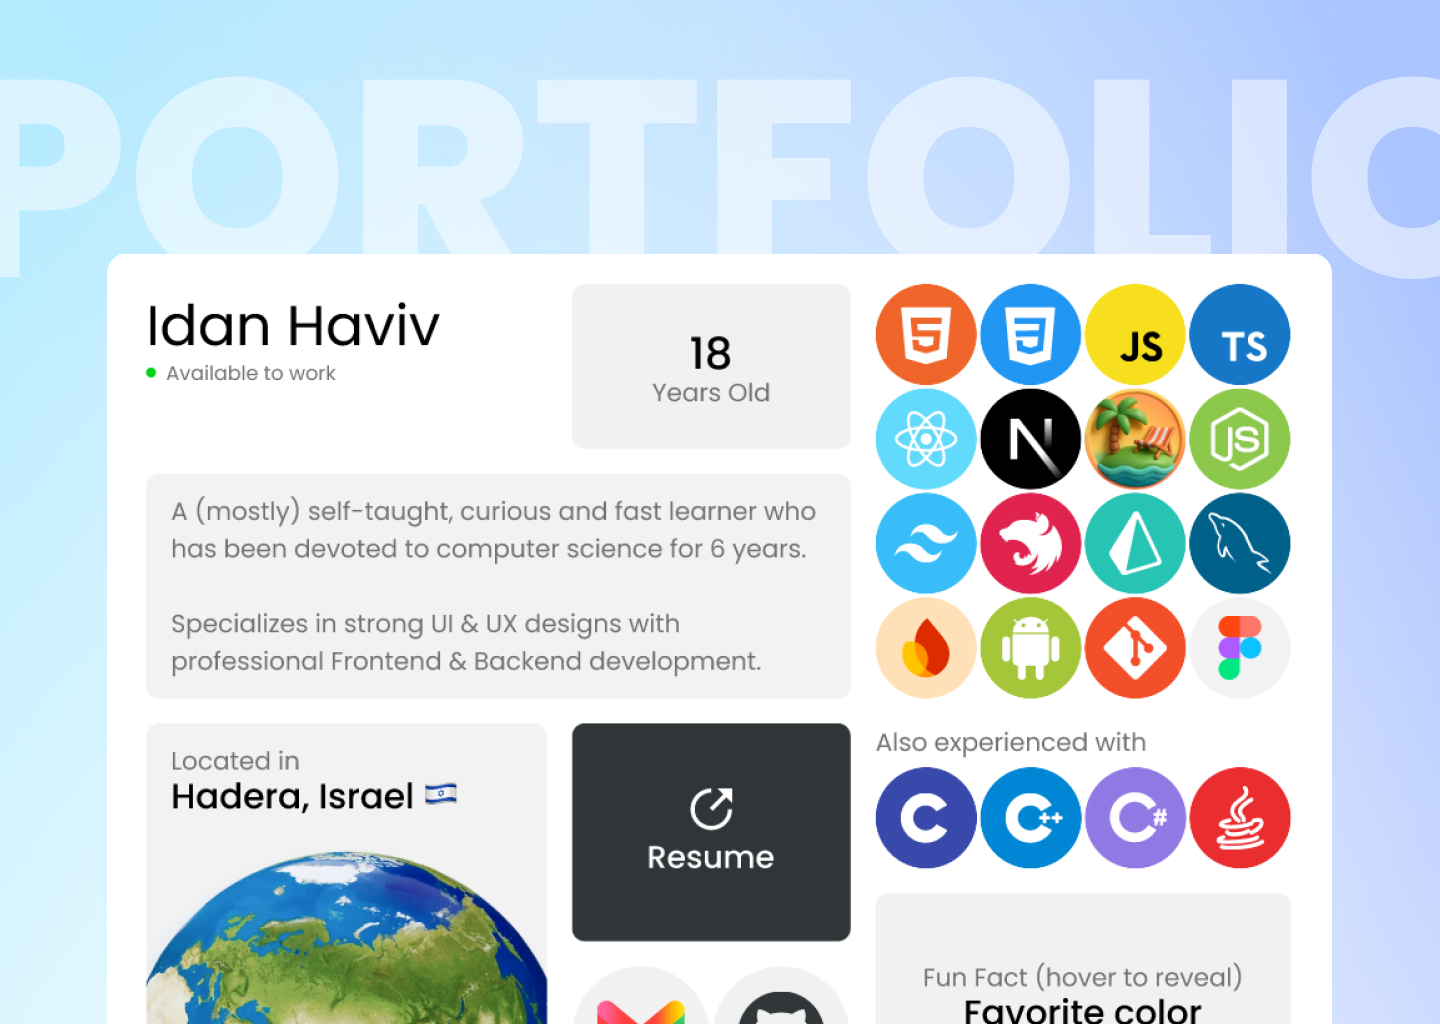
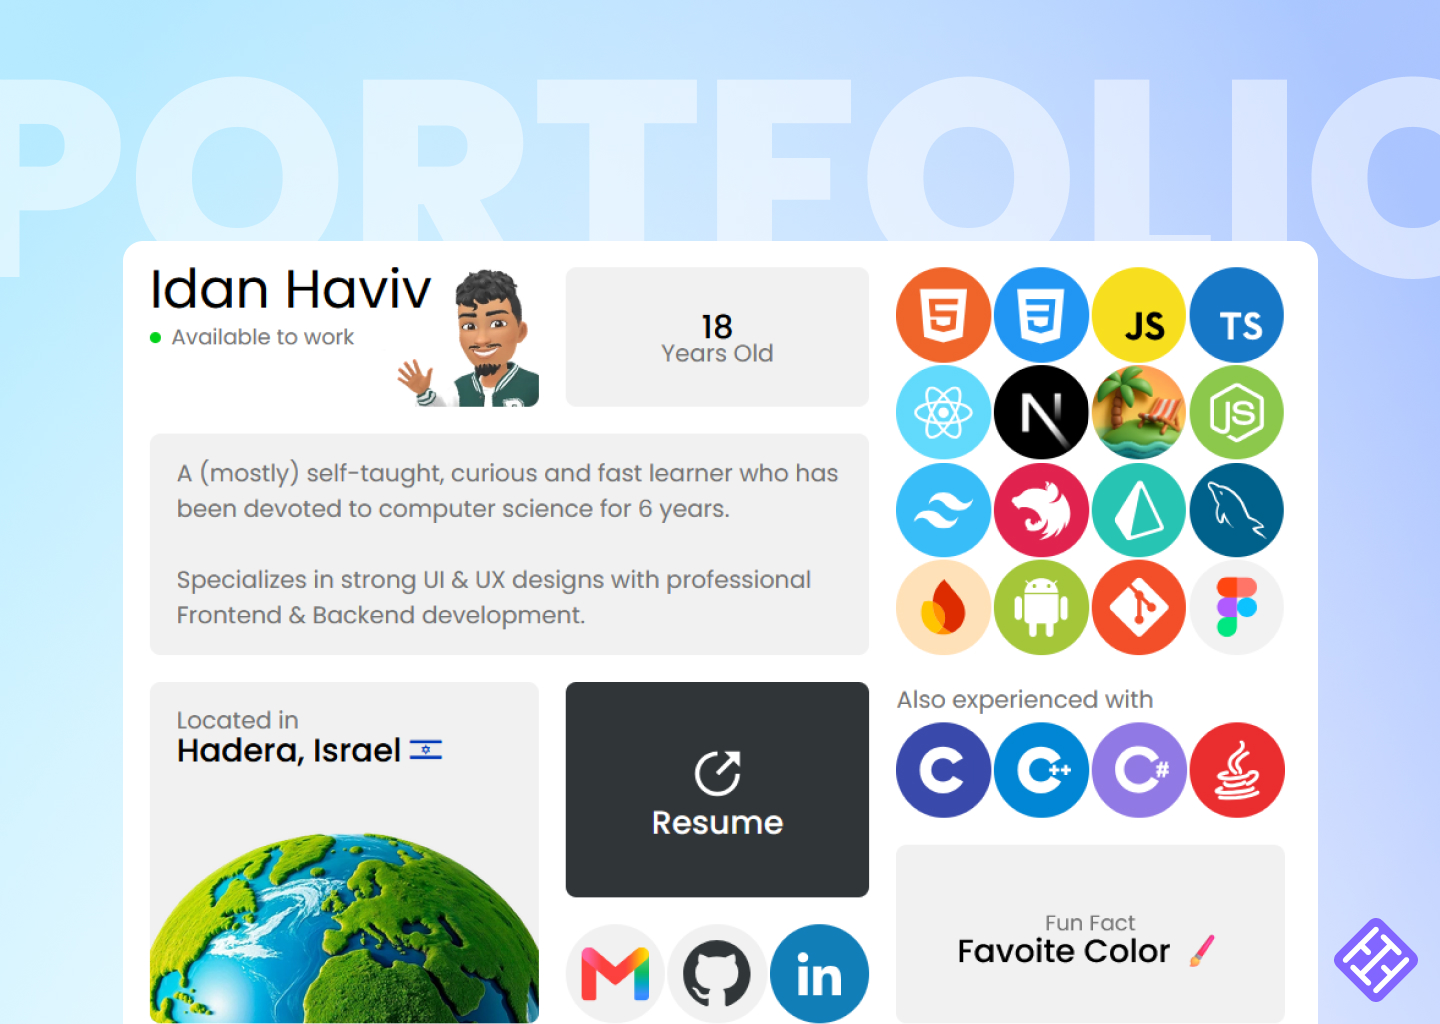
changing globe img in hero

Changed region(s): [[0.0625, 0.2188, 1.0, 1.0], [0.4375, 0.3125, 0.5312, 0.4062], [0.4375, 0.2188, 0.5, 0.25]]

diff --git a/client/app/(home)/_sections/hero/location.tsx b/client/app/(home)/_sections/hero/location.tsx
@@ -10,13 +10,13 @@ const Location = ({ className }: { className: string }) => {
         <h2>Hadera, Israel 🇮🇱</h2>
       </div>
 
-      <div className="relative w-72 h-36 not-sm:w-56 not-sm:h-28">
+      <div className="relative w-72 h-40 not-sm:w-56 not-sm:h-28">
         <Image
           src="/assets/hero/globe.png"
           width={512}
           height={512}
           loading="lazy"
-          className="w-full h-full object-cover object-top scale-110 origin-top transition duration-700 ease-out group-hover:scale-[1.3] group-hover:-rotate-15 group-hover:translate-x-[-10%]"
+          className="w-full h-full object-cover object-top scale-110 origin-top transition duration-700 ease-out group-hover:scale-[1.5] group-hover:-rotate-15 group-hover:translate-[-10%]"
           alt="globe"
         />
       </div>
